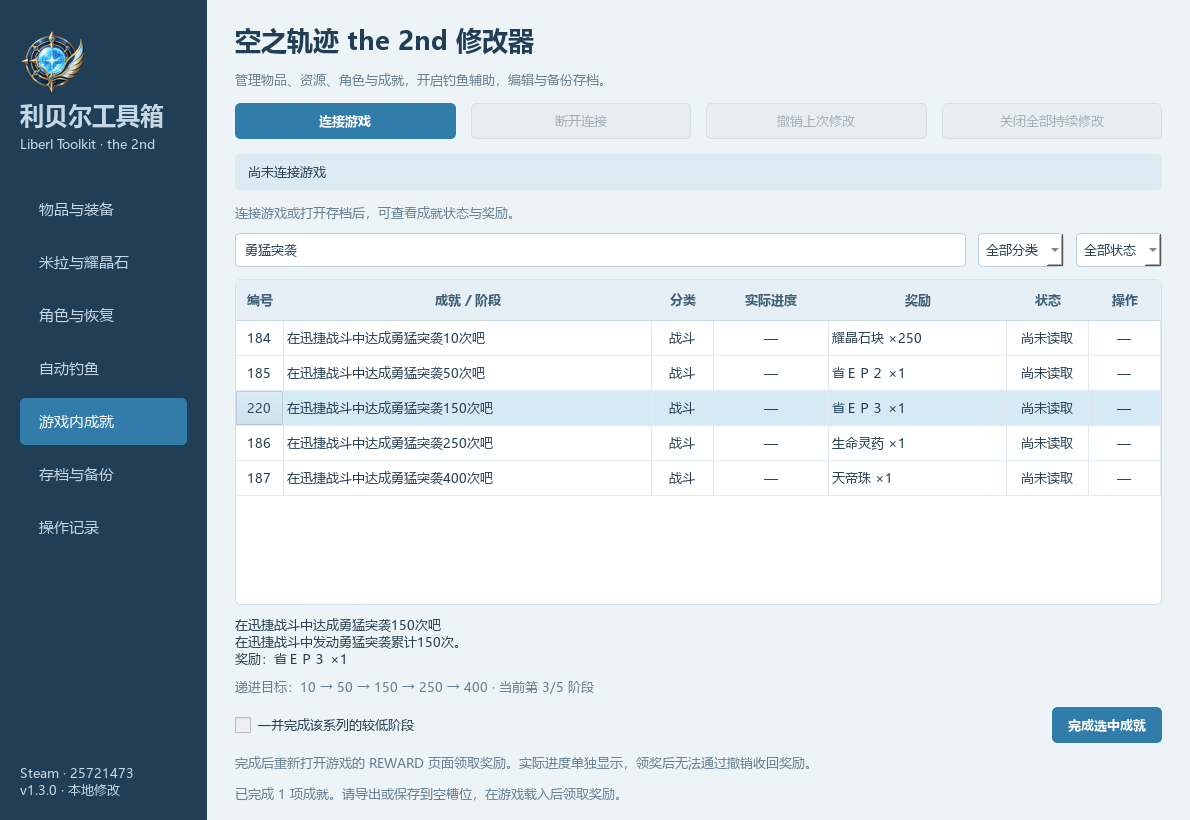
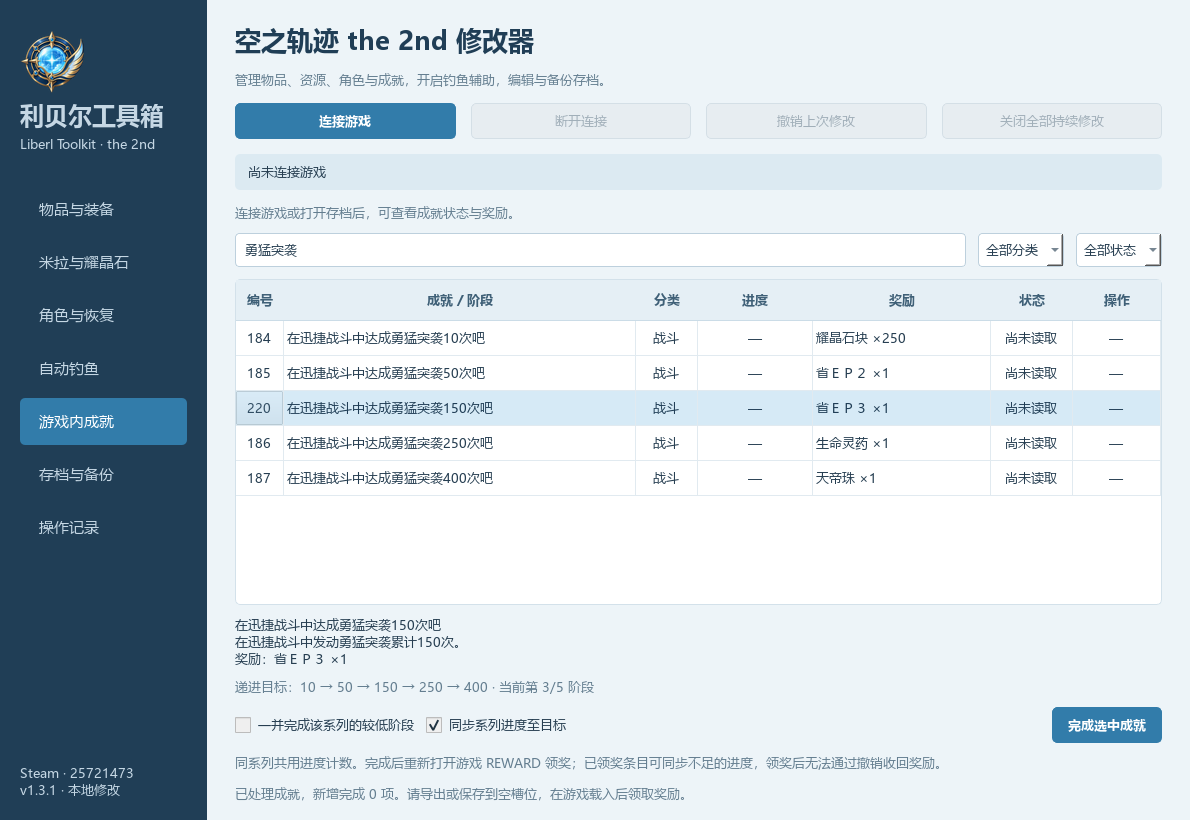
Sync reward achievement progress and repair completed entries

diff --git a/achievement_ui.py b/achievement_ui.py
@@ -10,7 +10,7 @@ from achievements import plan_completion
 
 
 class AchievementModel(QAbstractTableModel):
-    HEADERS = ['编号', '成就 / 阶段', '分类', '实际进度', '奖励', '状态', '操作']
+    HEADERS = ['编号', '成就 / 阶段', '分类', '进度', '奖励', '状态', '操作']
 
     def __init__(self, catalog):
         super().__init__()
@@ -39,7 +39,7 @@ class AchievementModel(QAbstractTableModel):
             return [str(achievement.id), achievement.name, achievement.category,
                     achievement.format_progress(state.progress) if state else '—',
                     achievement.reward_text, state.status if state else '尚未读取',
-                    '完成' if state and not state.complete else '—'][index.column()]
+                    ('完成' if not state.complete else '同步进度' if state.progress is not None and state.progress < achievement.target else '—') if state else '—'][index.column()]
         if role == Qt.ForegroundRole and index.column() == 5 and state:
             return QColor({'未完成': '#647e90', '可领奖': '#397a5c', '已领奖': '#8c9daa'}[state.status])
         if role == Qt.ToolTipRole:
@@ -79,22 +79,22 @@ class CompleteButtonDelegate(QStyledItemDelegate):
         self.callback = callback
 
     def paint(self, painter, option, index):
-        if index.data() != '完成':
+        if index.data() not in ('完成','同步进度'):
             super().paint(painter, option, index)
             return
         button = QStyleOptionButton()
         button.rect = option.rect.adjusted(5, 3, -5, -3)
-        button.text = '完成'
+        button.text = index.data()
         button.state = QStyle.State_Enabled
         if option.state & QStyle.State_MouseOver:
             button.state |= QStyle.State_MouseOver
         QApplication.style().drawControl(QStyle.CE_PushButton, button, painter)
 
     def editorEvent(self, event, model, option, index):
-        if (index.data() == '完成' and event.type() == QEvent.MouseButtonRelease
+        if (index.data() in ('完成','同步进度') and event.type() == QEvent.MouseButtonRelease
                 and event.button() == Qt.LeftButton
                 and option.rect.adjusted(5, 3, -5, -3).contains(event.position().toPoint())):
-            self.callback(index.data(Qt.UserRole))
+            self.callback(index.data(Qt.UserRole),index.data()=='同步进度')
             return True
         return False
 
@@ -132,10 +132,10 @@ class AchievementsPage(QWidget):
         self.table.verticalHeader().hide()
         self.table.verticalHeader().setDefaultSectionSize(35)
         self.table.horizontalHeader().setSectionResizeMode(1, QHeaderView.Stretch)
-        for column, width in [(0, 48), (2, 62), (3, 115), (4, 178), (5, 82), (6, 72)]:
+        for column, width in [(0, 48), (2, 62), (3, 115), (4, 178), (5, 82), (6, 88)]:
             self.table.setColumnWidth(column, width)
         self.table.setItemDelegateForColumn(6, CompleteButtonDelegate(self.complete, self.table))
-        self.table.activated.connect(lambda index: self.complete(index.data(Qt.UserRole)) if index.column() == 6 else None)
+        self.table.activated.connect(lambda index: self.complete(index.data(Qt.UserRole),index.data()=='同步进度') if index.column() == 6 else None)
         layout.addWidget(self.table, 1)
         self.details = QLabel('选择一条成就，查看要求、奖励及递进阶段。')
         self.details.setWordWrap(True)
@@ -147,14 +147,18 @@ class AchievementsPage(QWidget):
         actions = QHBoxLayout()
         self.include_lower = QCheckBox('一并完成该系列的较低阶段')
         self.include_lower.setChecked(False)
+        self.sync_progress = QCheckBox('同步系列进度至目标')
+        self.sync_progress.setChecked(True)
+        self.sync_progress.setToolTip('同系列共享一个计数；只提高到当前目标，保留已有更高计数。游戏也可能据此自动完成较低阶段。')
         self.complete_button = QPushButton('完成选中成就')
         self.complete_button.setObjectName('primary')
         self.complete_button.clicked.connect(lambda: self.complete(self.selected_id))
         actions.addWidget(self.include_lower)
+        actions.addWidget(self.sync_progress)
         actions.addStretch()
         actions.addWidget(self.complete_button)
         layout.addLayout(actions)
-        hint = QLabel('完成后重新打开游戏的 REWARD 页面领取奖励。实际进度单独显示，领奖后无法通过撤销收回奖励。')
+        hint = QLabel('同系列共用进度计数。完成后重新打开游戏 REWARD 领奖；已领奖条目可同步不足的进度，领奖后无法通过撤销收回奖励。')
         hint.setObjectName('muted')
         hint.setWordWrap(True)
         layout.addWidget(hint)
@@ -163,6 +167,7 @@ class AchievementsPage(QWidget):
             signal.connect(self.filter_rows)
         self.table.selectionModel().selectionChanged.connect(self.select)
         self.include_lower.toggled.connect(self.update_enabled)
+        self.sync_progress.toggled.connect(self.update_enabled)
         self.update_enabled()
 
     def filter_rows(self, *_):
@@ -187,7 +192,9 @@ class AchievementsPage(QWidget):
         active = bool(self.trainer.editor.mode and self.model.snapshot)
         selected = self.selected_id
         self.complete_button.setEnabled(False)
+        self.complete_button.setText('完成选中成就')
         self.include_lower.setEnabled(active)
+        self.sync_progress.setEnabled(active)
         if selected is None:
             return
         achievement = self.catalog.achievements[selected]
@@ -199,9 +206,16 @@ class AchievementsPage(QWidget):
         else:
             text = '此成就没有较低阶段。'
         if active:
-            changes = plan_completion(self.catalog, self.model.snapshot, selected, self.include_lower.isChecked())
+            try:
+                changes = plan_completion(self.catalog, self.model.snapshot, selected, self.include_lower.isChecked(),self.sync_progress.isChecked())
+            except RuntimeError as error:
+                self.series_info.setText(f'{text} · {error}')
+                return
             self.complete_button.setEnabled(bool(changes))
-            text += f' · 本次将完成 {len(changes)} 项'
+            flag_count=sum(len(data)==1 for _,data in changes)
+            text += f' · 本次将完成 {flag_count} 项'
+            if any(len(data)==4 for _,data in changes):text+=f'，进度同步至 {achievement.target}'
+            self.complete_button.setText('同步选中进度' if self.model.snapshot[selected].complete else '完成选中成就')
         self.series_info.setText(text)
 
     def refresh(self, snapshot):
@@ -215,14 +229,14 @@ class AchievementsPage(QWidget):
             self.summary.setText('连接游戏或打开存档后，可查看成就状态与奖励。')
         self.select()
 
-    def complete(self, aid):
+    def complete(self, aid, force_sync=False):
         if aid is None or not self.trainer.editor.mode:
             return
         count = 0
         def write():
             nonlocal count
-            count = self.trainer.editor.complete_achievement(aid, self.include_lower.isChecked())
+            count = self.trainer.editor.complete_achievement(aid, self.include_lower.isChecked(),force_sync or self.sync_progress.isChecked())
         if self.trainer.act(write):
-            self.trainer.note(f'已完成 {count} 项成就。' + (
+            self.trainer.note(f'已处理成就，新增完成 {count} 项。' + (
                 '重新打开游戏 REWARD 领取奖励，并另存一个手动存档。' if self.trainer.editor.mode == 'live'
                 else '请导出或保存到空槽位，在游戏载入后领取奖励。'))

diff --git a/tests/test_achievements.py b/tests/test_achievements.py
@@ -7,7 +7,7 @@ from types import SimpleNamespace
 from unittest.mock import patch
 
 from achievements import (AchievementCatalog, AchievementState, ACHIEVEMENT_FLAGS,
-                          PROGRESS_SAVE, decode_progress, plan_completion)
+                          PROGRESS_SAVE, decode_progress, encode_progress, plan_completion)
 from backend import Editor, SaveContainer, checksum
 from game_data import RAW_SIZE, CHARACTERS, CHAR_STRIDE, INVENTORY
 
@@ -118,6 +118,21 @@ class AchievementLogicTests(unittest.TestCase):
         with self.assertRaises(ValueError):
             AchievementCatalog.parse(synthetic_table(), {})
 
+    def test_synchronized_plan_raises_only_shared_counter_and_selected_flag(self):
+        changes=plan_completion(self.catalog,self.snapshot,220,sync_progress=True)
+        self.assertEqual(changes,[(ACHIEVEMENT_FLAGS+220,b'\x01'),(PROGRESS_SAVE+96*4,encode_progress(150))])
+
+    def test_progress_sync_preserves_higher_progress_and_claimed_flags(self):
+        self.snapshot[220]=AchievementState(3,175)
+        self.assertEqual(plan_completion(self.catalog,self.snapshot,220,sync_progress=True),[])
+        self.snapshot[220]=AchievementState(3,0)
+        self.assertEqual(plan_completion(self.catalog,self.snapshot,220,sync_progress=True),[(PROGRESS_SAVE+96*4,encode_progress(150))])
+
+    def test_invalid_counter_rejected_before_flags_are_written(self):
+        self.snapshot[220]=AchievementState(0,None)
+        with self.assertRaises(RuntimeError):plan_completion(self.catalog,self.snapshot,220,sync_progress=True)
+        with self.assertRaises(ValueError):encode_progress(0x20000000)
+
 
 class AchievementEditingTests(unittest.TestCase):
     def setUp(self):
@@ -153,7 +168,7 @@ class AchievementEditingTests(unittest.TestCase):
 
     def test_edit_export_only_changes_completion_and_checksum(self):
         before = bytes(self.ed.container.raw)
-        self.assertEqual(self.ed.complete_achievement(220), 1)
+        self.assertEqual(self.ed.complete_achievement(220,sync_progress=False), 1)
         after = self.ed.container.raw
         self.assertEqual([i for i, (a, b) in enumerate(zip(before, after)) if a != b], [ACHIEVEMENT_FLAGS + 220])
         self.assertEqual(self.ed.achievement_snapshot()[220], AchievementState(1, 4))
@@ -227,6 +242,54 @@ class AchievementEditingTests(unittest.TestCase):
         with self.assertRaises(RuntimeError):
             self.ed.complete_achievement(220)
         self.assertEqual(bytes(self.ed.container.raw), before)
+
+    def test_default_completion_syncs_progress_and_undo_restores_both(self):
+        before=bytes(self.ed.container.raw)
+        self.ed.complete_achievement(220)
+        self.assertEqual(self.ed.achievement_snapshot()[220],AchievementState(1,150))
+        changed={i for i,(a,b) in enumerate(zip(before,self.ed.container.raw)) if a!=b}
+        self.assertTrue(changed<={ACHIEVEMENT_FLAGS+220,*range(PROGRESS_SAVE+96*4,PROGRESS_SAVE+96*4+4)})
+        encoded=SaveContainer(self.ed.container.encode())
+        self.assertEqual(struct.unpack_from('<I',encoded.raw,PROGRESS_SAVE+96*4)[0],0x40000096)
+        self.ed.undo();self.assertEqual(bytes(self.ed.container.raw),before)
+
+    def test_live_counter_write_uses_system_address_and_can_undo(self):
+        self.ed.state=0x30000000
+        flags=bytearray(512);counter=bytearray(encode_progress(4));writes=[]
+        def read(address,size):
+            if address==0x20000000+0x11100:
+                data=bytearray(size);data[96*4:96*4+4]=counter;return bytes(data)
+            if address==0x20000000+0x11100+96*4:return bytes(counter)
+            offset=address-(0x30000000+8+ACHIEVEMENT_FLAGS)
+            if 0<=offset<512:return bytes(flags[offset:offset+size])
+            for rva,original in __import__('achievements').PROFILE_PROBES:
+                if address==0x10000000+rva:return original
+            raise AssertionError(hex(address))
+        def write(address,data):
+            writes.append(address)
+            if address==0x20000000+0x11100+96*4:counter[:]=data;return
+            offset=address-(0x30000000+8+ACHIEVEMENT_FLAGS)
+            if 0<=offset<512:flags[offset:offset+len(data)]=data;return
+            raise AssertionError(hex(address))
+        self.ed.memory=SimpleNamespace(base=0x10000000,pid=1,u64=lambda _:0x20000000,read=read,write=write,close=lambda:None)
+        try:
+            with patch.object(self.ed,'_check_live'),patch.object(self.ed,'validate'):
+                self.ed.complete_achievement(220)
+                self.assertEqual(self.ed.achievement_snapshot()[220],AchievementState(1,150))
+                self.assertEqual(writes,[0x30000000+8+ACHIEVEMENT_FLAGS+220,0x20000000+0x11100+96*4])
+                self.ed.undo()
+                self.assertEqual(self.ed.achievement_snapshot()[220],AchievementState(0,4))
+        finally:self.ed.memory=None
+
+    def test_counter_failure_rolls_back_completed_flags(self):
+        before=bytes(self.ed.container.raw)
+        write=self.ed._write
+        def fail_counter(offset,data):
+            if offset==PROGRESS_SAVE+96*4:raise RuntimeError('simulated counter write failure')
+            write(offset,data)
+        with patch.object(self.ed,'_write',side_effect=fail_counter):
+            with self.assertRaises(RuntimeError):self.ed.complete_achievement(220,True)
+        self.assertEqual(bytes(self.ed.container.raw),before)
 
 
 if __name__ == '__main__':

diff --git a/backend.py b/backend.py
@@ -122,17 +122,26 @@ class Editor:
     def read(self,offset,size):
         if not 0<=offset<=RAW_SIZE-size:raise ValueError('读取范围无效')
         if self.memory:
-            self._check_live();return self.memory.read(self.state+8+offset,size)
+            self._check_live();return self.memory.read(self._live_address(offset,size),size)
         if self.container:return bytes(self.container.raw[offset:offset+size])
         raise RuntimeError('请先连接游戏或打开存档')
 
     def _write(self,offset,data):
         if not 0<=offset<=RAW_SIZE-len(data):raise ValueError('写入范围无效')
         if self.memory:
-            self._check_live();self.memory.write(self.state+8+offset,data)
+            self._check_live();self.memory.write(self._live_address(offset,len(data)),data)
         elif self.container:
             self.container.raw[offset:offset+len(data)]=data;self.dirty=True
         else:raise RuntimeError('没有载入游戏数据')
+
+    def _live_address(self,offset,size):
+        # The serializer rebuilds this block from the system object. Reading or
+        # writing the main object's corresponding bytes would only change a cache.
+        if PROGRESS_SAVE<=offset and offset+size<=PROGRESS_SAVE+PROGRESS_CAPACITY*4:
+            system=self.memory.u64(self.memory.base+SYSTEM_STATE_RVA)
+            if not 0x10000<system<0x7FFFFFFFFFFF:raise RuntimeError('成就统计尚未载入')
+            return system+PROGRESS_LIVE+offset-PROGRESS_SAVE
+        return self.state+8+offset
 
     def validate(self):
         if struct.unpack('<2I',self.read(0,8))!=(2,2):raise RuntimeError('游戏数据版本无效')
@@ -266,26 +275,23 @@ class Editor:
 
     def achievement_snapshot(self):
         flags=self.read(ACHIEVEMENT_FLAGS,ACHIEVEMENT_CAPACITY)
-        if self.memory:
-            system=self.memory.u64(self.memory.base+SYSTEM_STATE_RVA)
-            if not 0x10000<system<0x7FFFFFFFFFFF:raise RuntimeError('成就统计尚未载入')
-            progress=self.memory.read(system+PROGRESS_LIVE,PROGRESS_CAPACITY*4)
-        else:progress=self.read(PROGRESS_SAVE,PROGRESS_CAPACITY*4)
+        progress=self.read(PROGRESS_SAVE,PROGRESS_CAPACITY*4)
         if any(flags[i] not in (0,1,3) for i in self.achievement_catalog.achievements):
             raise RuntimeError('成就状态格式无效，已拒绝修改')
         return {aid:AchievementState(flags[aid],decode_progress(struct.unpack_from('<I',progress,a.objective*4)[0]))
                 for aid,a in self.achievement_catalog.achievements.items()}
 
-    def complete_achievement(self,aid,include_lower=False):
+    def complete_achievement(self,aid,include_lower=False,sync_progress=True):
         if self.memory:
             self._check_live()
             for rva,original in PROFILE_PROBES:
                 if self.memory.read(self.memory.base+rva,len(original))!=original:
                     raise RuntimeError('游戏成就判定与支持版本不匹配，已拒绝修改')
-        changes=plan_completion(self.achievement_catalog,self.achievement_snapshot(),aid,include_lower)
+        changes=plan_completion(self.achievement_catalog,self.achievement_snapshot(),aid,include_lower,sync_progress)
+        completed=sum(ACHIEVEMENT_FLAGS<=offset<ACHIEVEMENT_FLAGS+ACHIEVEMENT_CAPACITY for offset,_ in changes)
         name=self.achievement_catalog.achievements[aid].name
-        self.apply(f'完成奖励成就：{name}（{len(changes)} 项）',changes)
-        return len(changes)
+        self.apply(f'完成奖励成就：{name}（{completed} 项；同步进度：{sync_progress}）',changes)
+        return completed
 
     def disable_locks(self):
         self.lock_resources={};self.sustain=set()

diff --git a/achievements.py b/achievements.py
@@ -39,6 +39,12 @@ def decode_progress(word):
     return 0
 
 
+def encode_progress(value):
+    if not isinstance(value, int) or not 0 <= value <= 0x1FFFFFFF:
+        raise ValueError('成就计数超出允许范围')
+    return struct.pack('<I', 0x40000000 | value)
+
+
 @dataclass(frozen=True)
 class Achievement:
     id: int
@@ -138,8 +144,8 @@ class AchievementCatalog:
         return tuple(a.id for a in self.series(aid) if a.target <= selected.target)
 
 
-def plan_completion(catalog, snapshot, aid, include_lower=False):
-    """Only set completion bits. Preserve claimed bits and all other game data."""
+def plan_completion(catalog, snapshot, aid, include_lower=False, sync_progress=False):
+    """Preserve claimed bits; optionally raise the shared objective counter."""
     ids = catalog.completion_ids(aid, include_lower)
     changes = []
     for item_id in ids:
@@ -148,4 +154,11 @@ def plan_completion(catalog, snapshot, aid, include_lower=False):
             raise RuntimeError('成就状态格式无效，已拒绝修改')
         if not state.complete:
             changes.append((ACHIEVEMENT_FLAGS + item_id, bytes([state.flags | 1])))
+    if sync_progress:
+        achievement = catalog.achievements[aid]
+        progress = snapshot[aid].progress
+        if progress is None or progress < 0:
+            raise RuntimeError('成就计数无效，已拒绝修改')
+        if progress < achievement.target:
+            changes.append((PROGRESS_SAVE + achievement.objective * 4, encode_progress(achievement.target)))
     return changes

diff --git a/app.py b/app.py
@@ -39,7 +39,7 @@ QHeaderView::section { background:#e5eff5; color:#3f6077; border:0; border-botto
 QStatusBar { background:#dfeaf1; }
 '''
 
-VERSION='1.3.0'
+VERSION='1.3.1'
 ASSET_ROOT=Path(getattr(sys,'_MEIPASS',Path(__file__).resolve().parent))/'assets'
 
 def configure_ui(app):

diff --git a/README.md b/README.md
@@ -44,13 +44,15 @@ A Chinese-language Windows trainer and save editor for **Trails in the Sky 2nd C
 
 此页面处理游戏的 **REWARD 奖励成就**，不调用 Steam 成就接口。条目和奖励名称从用户安装的游戏表读取；没有奖励的隐藏记录不在列表中。
 
-连接游戏或打开存档后，页面显示“未完成 / 可领奖 / 已领奖”、实际进度、目标和奖励。点击某行的“完成”，或选中后点击“完成选中成就”。默认只完成该条，不会自动完成同系列的其他条目。
+连接游戏或打开存档后，页面显示“未完成 / 可领奖 / 已领奖”、进度、目标和奖励。点击某行的“完成”，或选中后点击“完成选中成就”。默认设置所选条目的完成标记，并勾选“同步系列进度至目标”：计数只提高到当前目标，已有更高数值保留。取消勾选可仅设置完成标记。
 
-勾选“一并完成该系列的较低阶段”，可同时完成该目标之前尚未完成的阶段。比如完成“勇猛突袭150次”时，可连同10次、50次一起完成，250次和400次保持原状态。阶段按目标值排列，正确处理插入在旧编号之间的新阶段。页面显示本次将完成的项数，已完成和已领奖的条目不会重复修改。
+勾选“一并完成该系列的较低阶段”，可同时完成该目标之前尚未完成的阶段。比如完成“勇猛突袭150次”时，可连同10次、50次一起完成，250次和400次保持原状态。阶段按目标值排列，正确处理插入在旧编号之间的新阶段。页面显示本次将完成的项数，已完成和已领奖的标记不会重复设置。
 
-修改只设置成就完成标记，实际行动统计、怪物手册、书籍、宝箱和任务记录不会被补满。完成后重新打开游戏的 REWARD 页面，按游戏流程领取奖励；实时修改后在游戏里另存手动存档。存档编辑模式须先导出新文件或保存到空槽位，再回游戏载入并领奖。
+同系列共用一个进度计数，提高到较高阶段时，较低阶段的进度也会提高，游戏可能据此自动判定较低阶段完成。工具仅在勾选“一并完成”时直接修改较低阶段的标记。手册、书籍、宝箱和任务记录不会被补满。完成后重新打开游戏的 REWARD 页面，按游戏流程领取奖励；实时修改后在游戏里另存手动存档。存档编辑模式须先导出新文件或保存到空槽位，再回游戏载入并领奖。
 
-领奖状态会保留。领奖前可以撤销本次完成操作；领奖后工具会拒绝覆盖游戏的新状态，撤销不能收回奖励。启用本页不会自动完成任何成就。
+已经完成或领奖、但计数还低于目标的条目会显示“同步进度”按钮，可以修正旧版只改标记而留下的 `0/3` 等进度。此操作保留领奖状态，不重复发放奖励。有些计数由游戏根据手册等记录重新计算，后续相关游戏行为可能更新它们；需要时可再次同步。
+
+领奖状态会保留。完成操作后再领奖，工具会拒绝撤销该次操作以覆盖游戏的新状态；单独同步已领奖条目的进度时，可以撤销计数修改，但不会收回奖励。启用本页不会自动完成任何成就。
 
 ![游戏内成就页面（未连接状态）](docs/images/achievements.png)
 
@@ -109,7 +111,7 @@ python -m venv .venv
 
 目录式构建应使用干净的 CPython 环境，避免在 PATH 中放入其他程序的 ICU 库。
 
-测试不分发游戏资源或存档。没有本机游戏和测试存档时，11 项存档集成测试会跳过，15 项奖励成就测试和 5 项钓鱼补丁测试仍可运行。成就测试使用原创合成表和存档，覆盖单项完成、递进阶段、保留领奖状态、撤销冲突、回滚和实时统计来源。集成测试默认读取本机 `save065\savedata`，可通过 `LIBERL_TEST_SAVE` 指定一份第二卷尚未拥有的测试存档；不会覆盖原文件。
+测试不分发游戏资源或存档。没有本机游戏和测试存档时，11 项存档集成测试会跳过，21 项奖励成就测试和 5 项钓鱼补丁测试仍可运行。成就测试使用原创合成表和存档，覆盖单项完成、递进阶段、保留领奖状态、撤销冲突、回滚、计数同步和实时统计读写来源。集成测试默认读取本机 `save065\savedata`，可通过 `LIBERL_TEST_SAVE` 指定一份第二卷尚未拥有的测试存档；不会覆盖原文件。
 
 `--self-check` 做只读启动检查，结果位于 `%USERPROFILE%\AppData\Local\Sora2Trainer\last-self-check.json`。`--achievements` 打开成就页面。`--fishing` 打开钓鱼页面；`--auto-fishing` 在连接成功后开启辅助，默认双击不会自动开启。
 

diff --git a/docs/internals/achievement-layout.md b/docs/internals/achievement-layout.md
@@ -27,7 +27,7 @@ state 来自 `[module + 0xC61360]`。状态 bit 0 为完成，bit 1 为已领奖
 
 统计值使用带类型的 32 位数字：最高两位为类型，1 是低 30 位带符号整数；2 将整个 word 左移两位后视为 float，再截断为整数；其他类型由原生判定作 0 处理。非有限浮点数显示未知，不用于写入。战术奖励 objective 95 的阈值以十倍整数表示。
 
-实时统计必须读取 system 对象；主状态对象对应 `0x5100C` 的位置只是缓存，实测存在旧值。统计只读，完成操作不改统计，也不补齐实际游戏行为。
+实时统计必须读写 system 对象；主状态对象对应 `0x5100C` 的位置只是缓存，实测存在旧值。v1.3.0 只改完成标记；v1.3.1 默认将所选 objective 的计数提高到 target，以 `0x40000000 | target` 编码为带类型整数。已有更高计数不降低，异常计数不写入。此操作不补齐手册、任务等原始游戏记录。
 
 ## 原生证据和写入
 
@@ -36,6 +36,8 @@ state 来自 `[module + 0xC61360]`。状态 bit 0 为完成，bit 1 为已领奖
 - `0x131188` 起：读取相同状态字节，`flags & 3 == 1` 才进入奖励领取路径。
 - `0x13179C`：OR 2，标记已领取奖励。工具不执行该路径，也不伪造奖品。
 
-实时写入前检查两处完整指令字节，另外由 Editor 校验 EXE 哈希和主状态。只对选定条目（或明确勾选的较低阶段）的完成位做单字节写入。原存档自动备份，旧值和新值记入本地日志；系列修改作为一次可回滚、可撤销事务。领奖后状态从 1 变 3，撤销必须拒绝覆盖它。
+实时写入前检查两处完整指令字节，另外由 Editor 校验 EXE 哈希和主状态。对选定条目（或明确勾选的较低阶段）的完成位做单字节写入；勾选同步时，同一事务还写入一个 4 字节计数。Editor 的地址解析将统计存档偏移映射到实时 system 对象，撤销和回滚也使用该地址。原存档自动备份，旧值和新值记入本地日志。领奖后状态从 1 变 3，撤销必须拒绝覆盖它。
 
-测试包含原创合成表和存档，不分发游戏表、玩家存档、内存转储或原生反汇编输出。界面验证在存档副本中执行；实时只读验证确认 221 条状态、计数地址和领取判定指令。
+同 objective 的全部阶段共享计数，游戏后续判定可能完成较低目标。部分统计会从原始记录重新生成，后续相关行为可能覆盖同步值；工具不持续锁定计数。对旧版已领奖、进度不足的条目，仅同步计数，保留 3 状态且不重发奖品。
+
+测试包含原创合成表和存档，不分发游戏表、玩家存档、内存转储或原生反汇编输出。界面验证在存档副本中执行；模拟内存测试确认写入与撤销均操作 system 对象而非主对象缓存。玩家确认 v1.3.0 可以正常领奖；在其反馈后，v1.3.1 对已领奖的“制作3种成功料理”同步计数 0→3，并核对领奖标记仍为 3。
